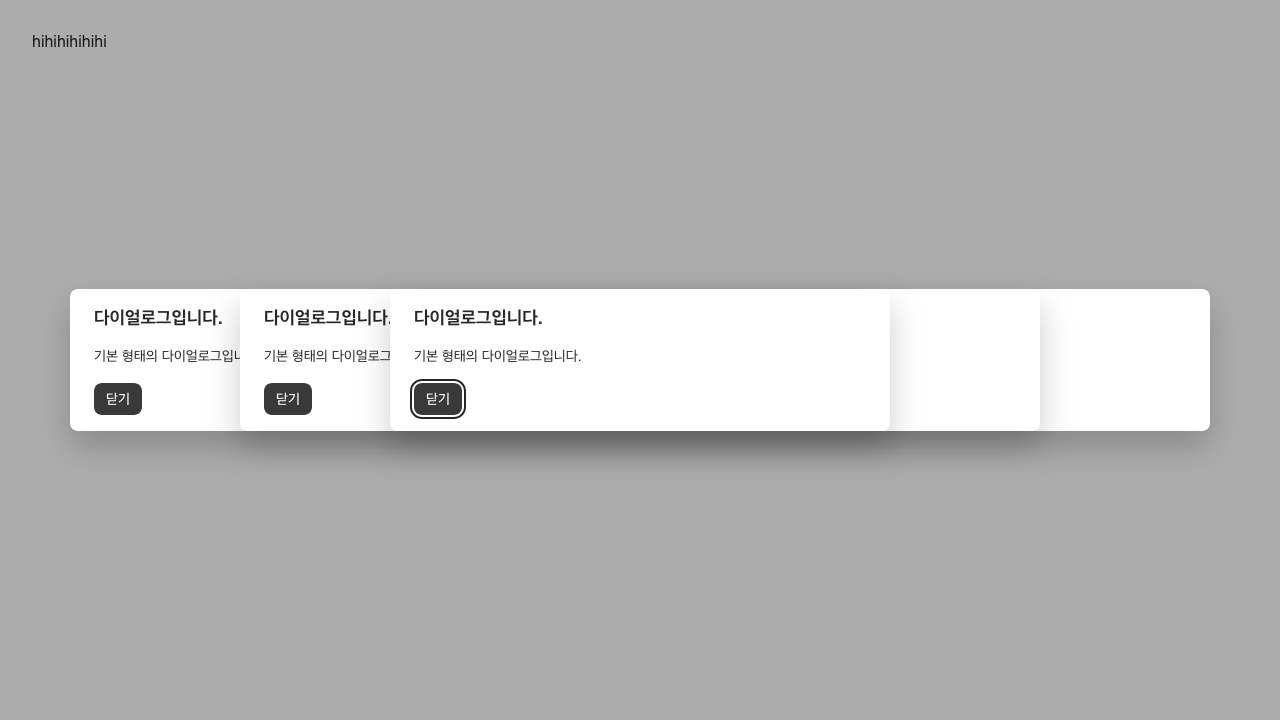
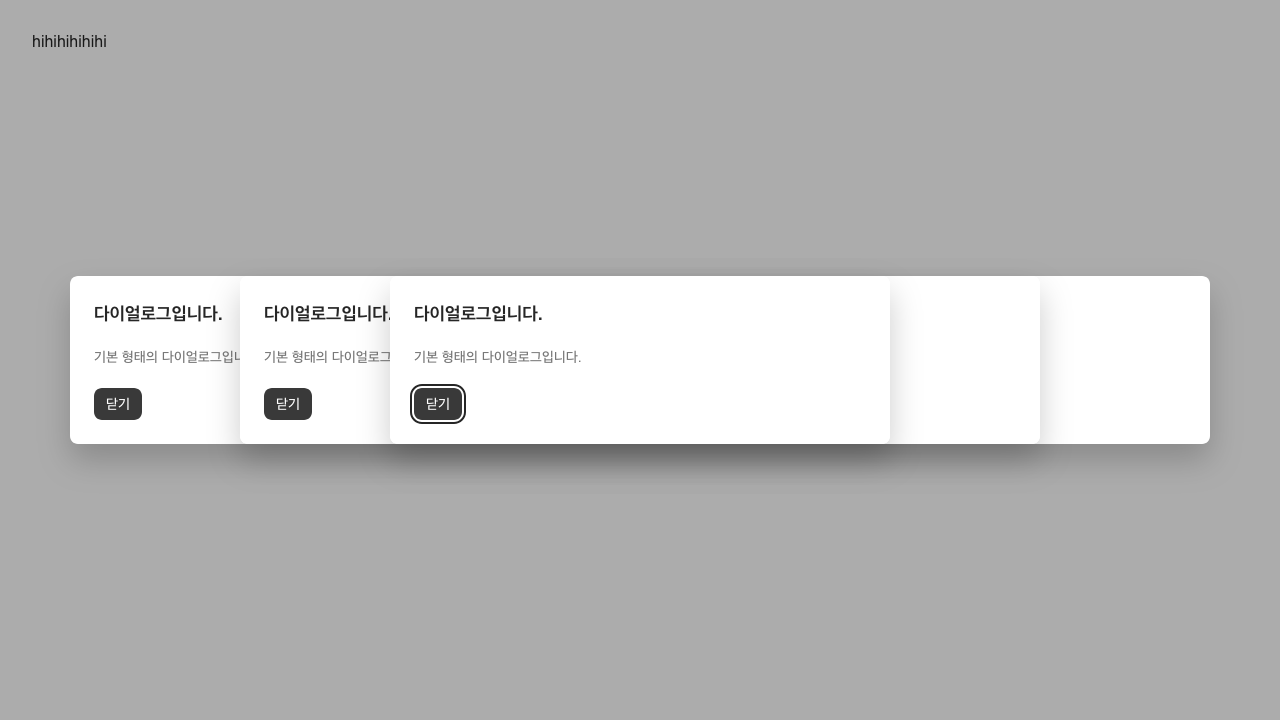
fix(dialog): align header/body/footer padding with design (#760)

Changed region(s): [[0.0312, 0.4889, 0.9688, 0.6417], [0.0625, 0.3667, 0.9375, 0.4583]]

diff --git a/packages/core/src/components/dialog/dialog.css.ts b/packages/core/src/components/dialog/dialog.css.ts
@@ -1,7 +1,9 @@
 import { calc } from '@vanilla-extract/css-utils';
 import type { RecipeVariants } from '@vanilla-extract/recipes';
 
+import { foregrounds } from '~/styles/mixins/foreground.css';
 import { componentRecipe, componentStyle } from '~/styles/mixins/layer-style.css';
+import { typography } from '~/styles/mixins/typography.css';
 import { vars } from '~/styles/themes.css';
 
 export const overlay = componentStyle({
@@ -71,35 +73,30 @@ export const popup = componentRecipe({
     },
 });
 
-export const title = componentStyle({
-    lineHeight: vars.typography.lineHeight['200'],
-    letterSpacing: vars.typography.letterSpacing['100'],
-    color: vars.color.foreground['normal'],
-    fontSize: vars.typography.fontSize['200'],
-    fontWeight: vars.typography.fontWeight['700'],
-});
+export const title = componentStyle([
+    foregrounds({ color: 'normal' }),
+    typography({ style: 'heading5' }),
+]);
 
-export const description = componentStyle({
-    lineHeight: vars.typography.lineHeight['075'],
-    letterSpacing: vars.typography.letterSpacing['100'],
-    color: vars.color.foreground['normal'],
-    fontSize: vars.typography.fontSize['075'],
-    fontWeight: vars.typography.fontWeight['400'],
-});
+export const description = componentStyle([
+    foregrounds({ color: 'hint' }),
+    typography({ style: 'subtitle1' }),
+]);
 
 export const header = componentStyle({
     display: 'flex',
     flexShrink: 0,
     alignItems: 'center',
-    gap: vars.size.space['150'],
-    paddingBlock: 0,
+    gap: vars.size.space['250'],
+    paddingTop: vars.size.space['300'],
+    paddingBottom: 0,
     paddingInline: vars.size.space['300'],
     width: '100%',
-    height: vars.size.dimension['700'],
 });
 
 export const body = componentStyle({
-    paddingBlock: 0,
+    marginTop: vars.size.space['250'],
+    paddingBottom: 0,
     paddingInline: vars.size.space['300'],
     width: '100%',
     overflowY: 'auto',
@@ -108,7 +105,8 @@ export const body = componentStyle({
 export const footer = componentStyle({
     display: 'flex',
     alignItems: 'center',
-    paddingBlock: vars.size.space['200'],
+    paddingTop: vars.size.space['250'],
+    paddingBottom: vars.size.space['300'],
     paddingInline: vars.size.space['300'],
     width: '100%',
 });

diff --git a/packages/composites/src/components/dialog/dialog.tsx b/packages/composites/src/components/dialog/dialog.tsx
@@ -210,18 +210,11 @@ interface HeaderProps extends Pick<Dialog.Props, 'title' | 'description'> {}
 const Header = ({ title, description }: HeaderProps) => {
     return (
         <DialogPrimitives.Header
-            $css={{
-                position: 'relative',
-                display: 'grid',
-                gridTemplateColumns: '1fr 28px',
-                height: 'unset',
-                paddingTop: '$300',
-                gap: '$200',
-            }}
+            $css={{ position: 'relative', display: 'grid', gridTemplateColumns: '1fr 28px' }}
         >
-            <VStack $css={{ alignItems: 'flex-start', gap: '$025', flex: 1 }}>
+            <VStack $css={{ alignItems: 'flex-start', gap: '$050', flex: 1 }}>
                 <slots.title render={title} />
-                <slots.description render={description} $css={{ color: '$fg-hint' }} />
+                <slots.description render={description} />
             </VStack>
 
             <CloseButton />
@@ -261,7 +254,6 @@ const Body = ({ $css: $cssProp, children, ...props }: DialogPrimitives.Body.Prop
 
     const $css = {
         maskImage: overflowed ? 'linear-gradient(to top, transparent 0, black 20px)' : '',
-        marginTop: '$200',
         paddingBottom: overflowed ? '$250' : '$000',
         ...$cssProp,
     } satisfies typeof $cssProp;
@@ -287,8 +279,7 @@ const Footer = ({ action, assistive }: FooterProps) => {
             $css={{
                 display: 'grid',
                 gridTemplateAreas: '"assistive action"',
-                paddingTop: renderFooter ? '$200' : '$000',
-                paddingBottom: '$300',
+                paddingTop: renderFooter ? '$250' : '$000',
             }}
         >
             <slots.assistive

diff --git a/packages/core/src/components/sheet/sheet.css.ts b/packages/core/src/components/sheet/sheet.css.ts
@@ -1,6 +1,7 @@
 import type { CSSProperties } from '@vanilla-extract/css';
 import { createGlobalVar } from '@vanilla-extract/css';
 
+import { foregrounds } from '~/styles/mixins/foreground.css';
 import { interaction } from '~/styles/mixins/interactions.css';
 import { componentStyle } from '~/styles/mixins/layer-style.css';
 import { when } from '~/styles/mixins/logical-states';
@@ -186,6 +187,7 @@ export const header = componentStyle({
 
 export const body = componentStyle({
     flex: 1,
+    marginTop: 'unset',
     paddingBlock: vars.size.space[100],
     paddingInline: vars.size.space[150],
     height: '100%',
@@ -196,3 +198,5 @@ export const footer = componentStyle({
     paddingBlock: vars.size.space[100],
     paddingInline: vars.size.space[150],
 });
+
+export const description = componentStyle([foregrounds({ color: 'normal' })]);

diff --git a/packages/core/src/components/sheet/sheet.tsx b/packages/core/src/components/sheet/sheet.tsx
@@ -400,7 +400,15 @@ SheetTitle.displayName = 'Sheet.Title';
  * -----------------------------------------------------------------------------------------------*/
 
 export const SheetDescription = forwardRef<HTMLParagraphElement, SheetDescription.Props>(
-    (props, ref) => <Dialog.Description ref={ref} {...props} />,
+    ({ className, ...props }, ref) => {
+        return (
+            <Dialog.Description
+                ref={ref}
+                className={cn(styles.description, className)}
+                {...props}
+            />
+        );
+    },
 );
 SheetDescription.displayName = 'Sheet.Description';
 

diff --git a/.changeset/dialog-padding-composites.md b/.changeset/dialog-padding-composites.md
@@ -1,0 +1,5 @@
+---
+'@vapor-ui/composites': patch
+---
+
+align `Dialog` with design — section spacing (Header→Body 20 / Body→Footer 20), title–description gap 4px, description font weight 500. Reset `@vapor-ui/core` `Dialog.Body` top padding so the Header→Body gap stays a margin outside the scroll area instead of doubling

diff --git a/.changeset/dialog-padding-design.md b/.changeset/dialog-padding-design.md
@@ -1,0 +1,5 @@
+---
+'@vapor-ui/core': patch
+---
+
+align `Dialog` header/body/footer padding with design — remove the fixed `Dialog.Header` height (56px) and use padding instead (top 24 / Header→Body 20 / Body→Footer 20 / bottom 24). Vertical spacing of existing dialogs will change.
